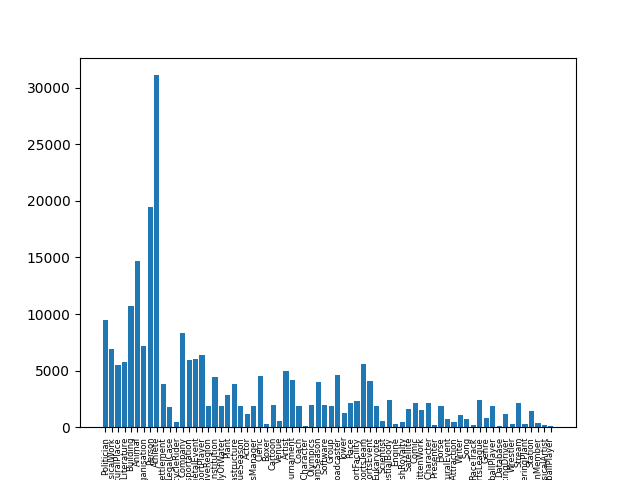
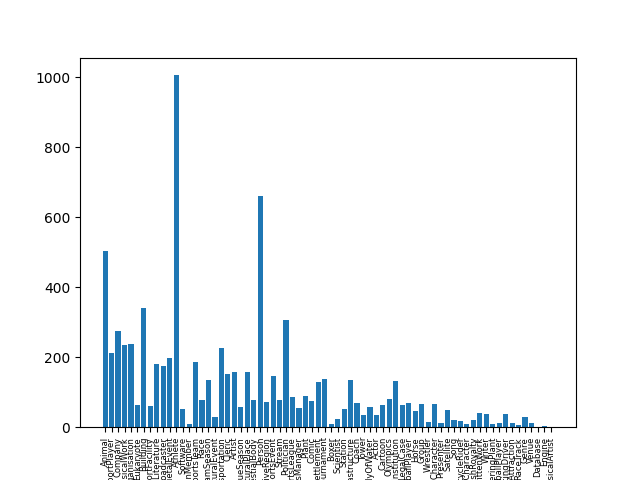
Samples dataset

diff --git a/one-gpu-bert/process_dataset.py b/one-gpu-bert/process_dataset.py
@@ -1,6 +1,7 @@
 # Text Classification Using BERT
 
 # Adapted from https://colab.research.google.com/github/NielsRogge/Transformers-Tutorials/blob/master/BERT/Fine_tuning_BERT_(and_friends)_for_multi_label_text_classification.ipynb#scrollTo=AFWlSsbZaRLc
+# https://colab.research.google.com/github/abhimishra91/transformers-tutorials/blob/master/transformers_multi_label_classification.ipynb#scrollTo=NLxxwd1scQNv
 
 from datasets import load_dataset
 from transformers import AutoTokenizer
@@ -15,6 +16,16 @@ import torch.nn as nn
 def load_data():
     print("===> Loading Dataset...")
     dataset = load_dataset("DeveloperOats/DBPedia_Classes")
+
+    train_idxs = np.random.randint(0, len(dataset["train"]), size=8000)
+    dataset["train"] = dataset["train"].select(train_idxs)
+
+    test_idxs = np.random.randint(0, len(dataset["test"]), size=2000)
+    dataset["test"] = dataset["test"].select(test_idxs)
+
+    val_idxs = np.random.randint(0, len(dataset["validation"]), size=1000)
+    dataset["validation"] = dataset["validation"].select(val_idxs)
+
     print()
     return dataset
 
@@ -66,6 +77,7 @@ def preprocess_data_helper(samples, tokenizer, label2id):
 
 def main():
     dataset = load_data()
+
     labels, id2label, label2id = preprocess_labels(dataset)
     encoded_dataset = preprocess_data(dataset, label2id)
 
